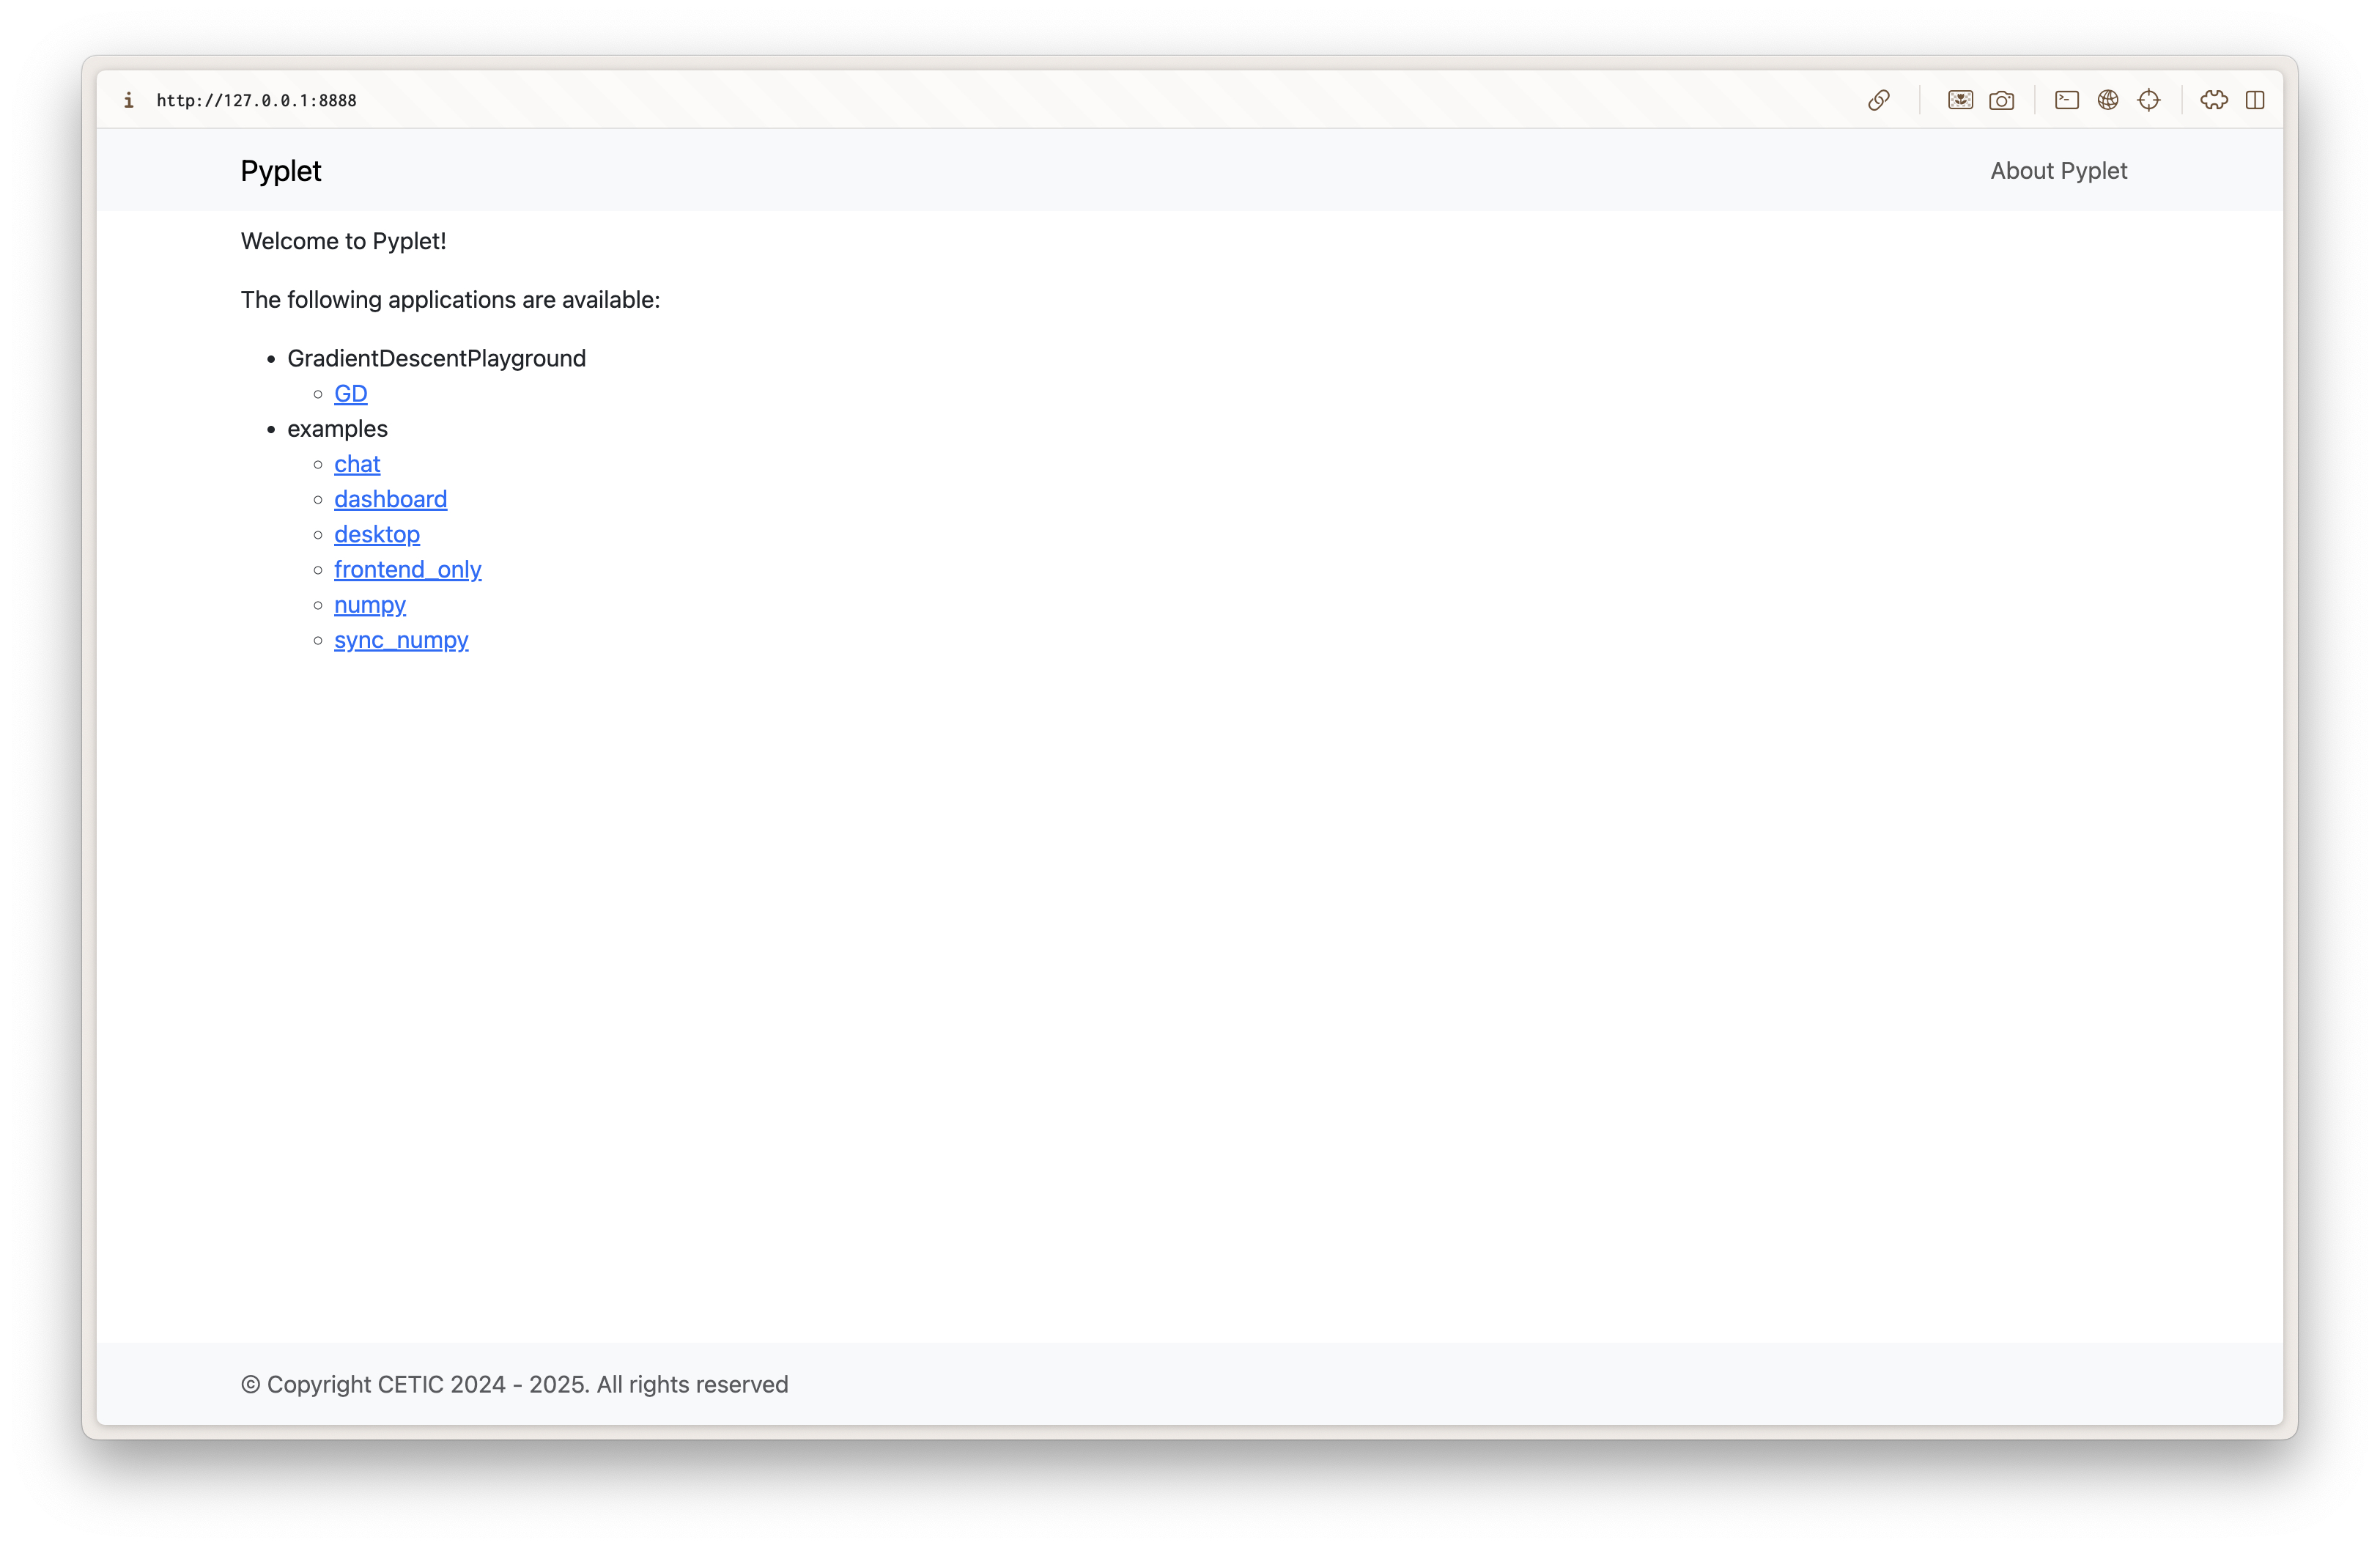
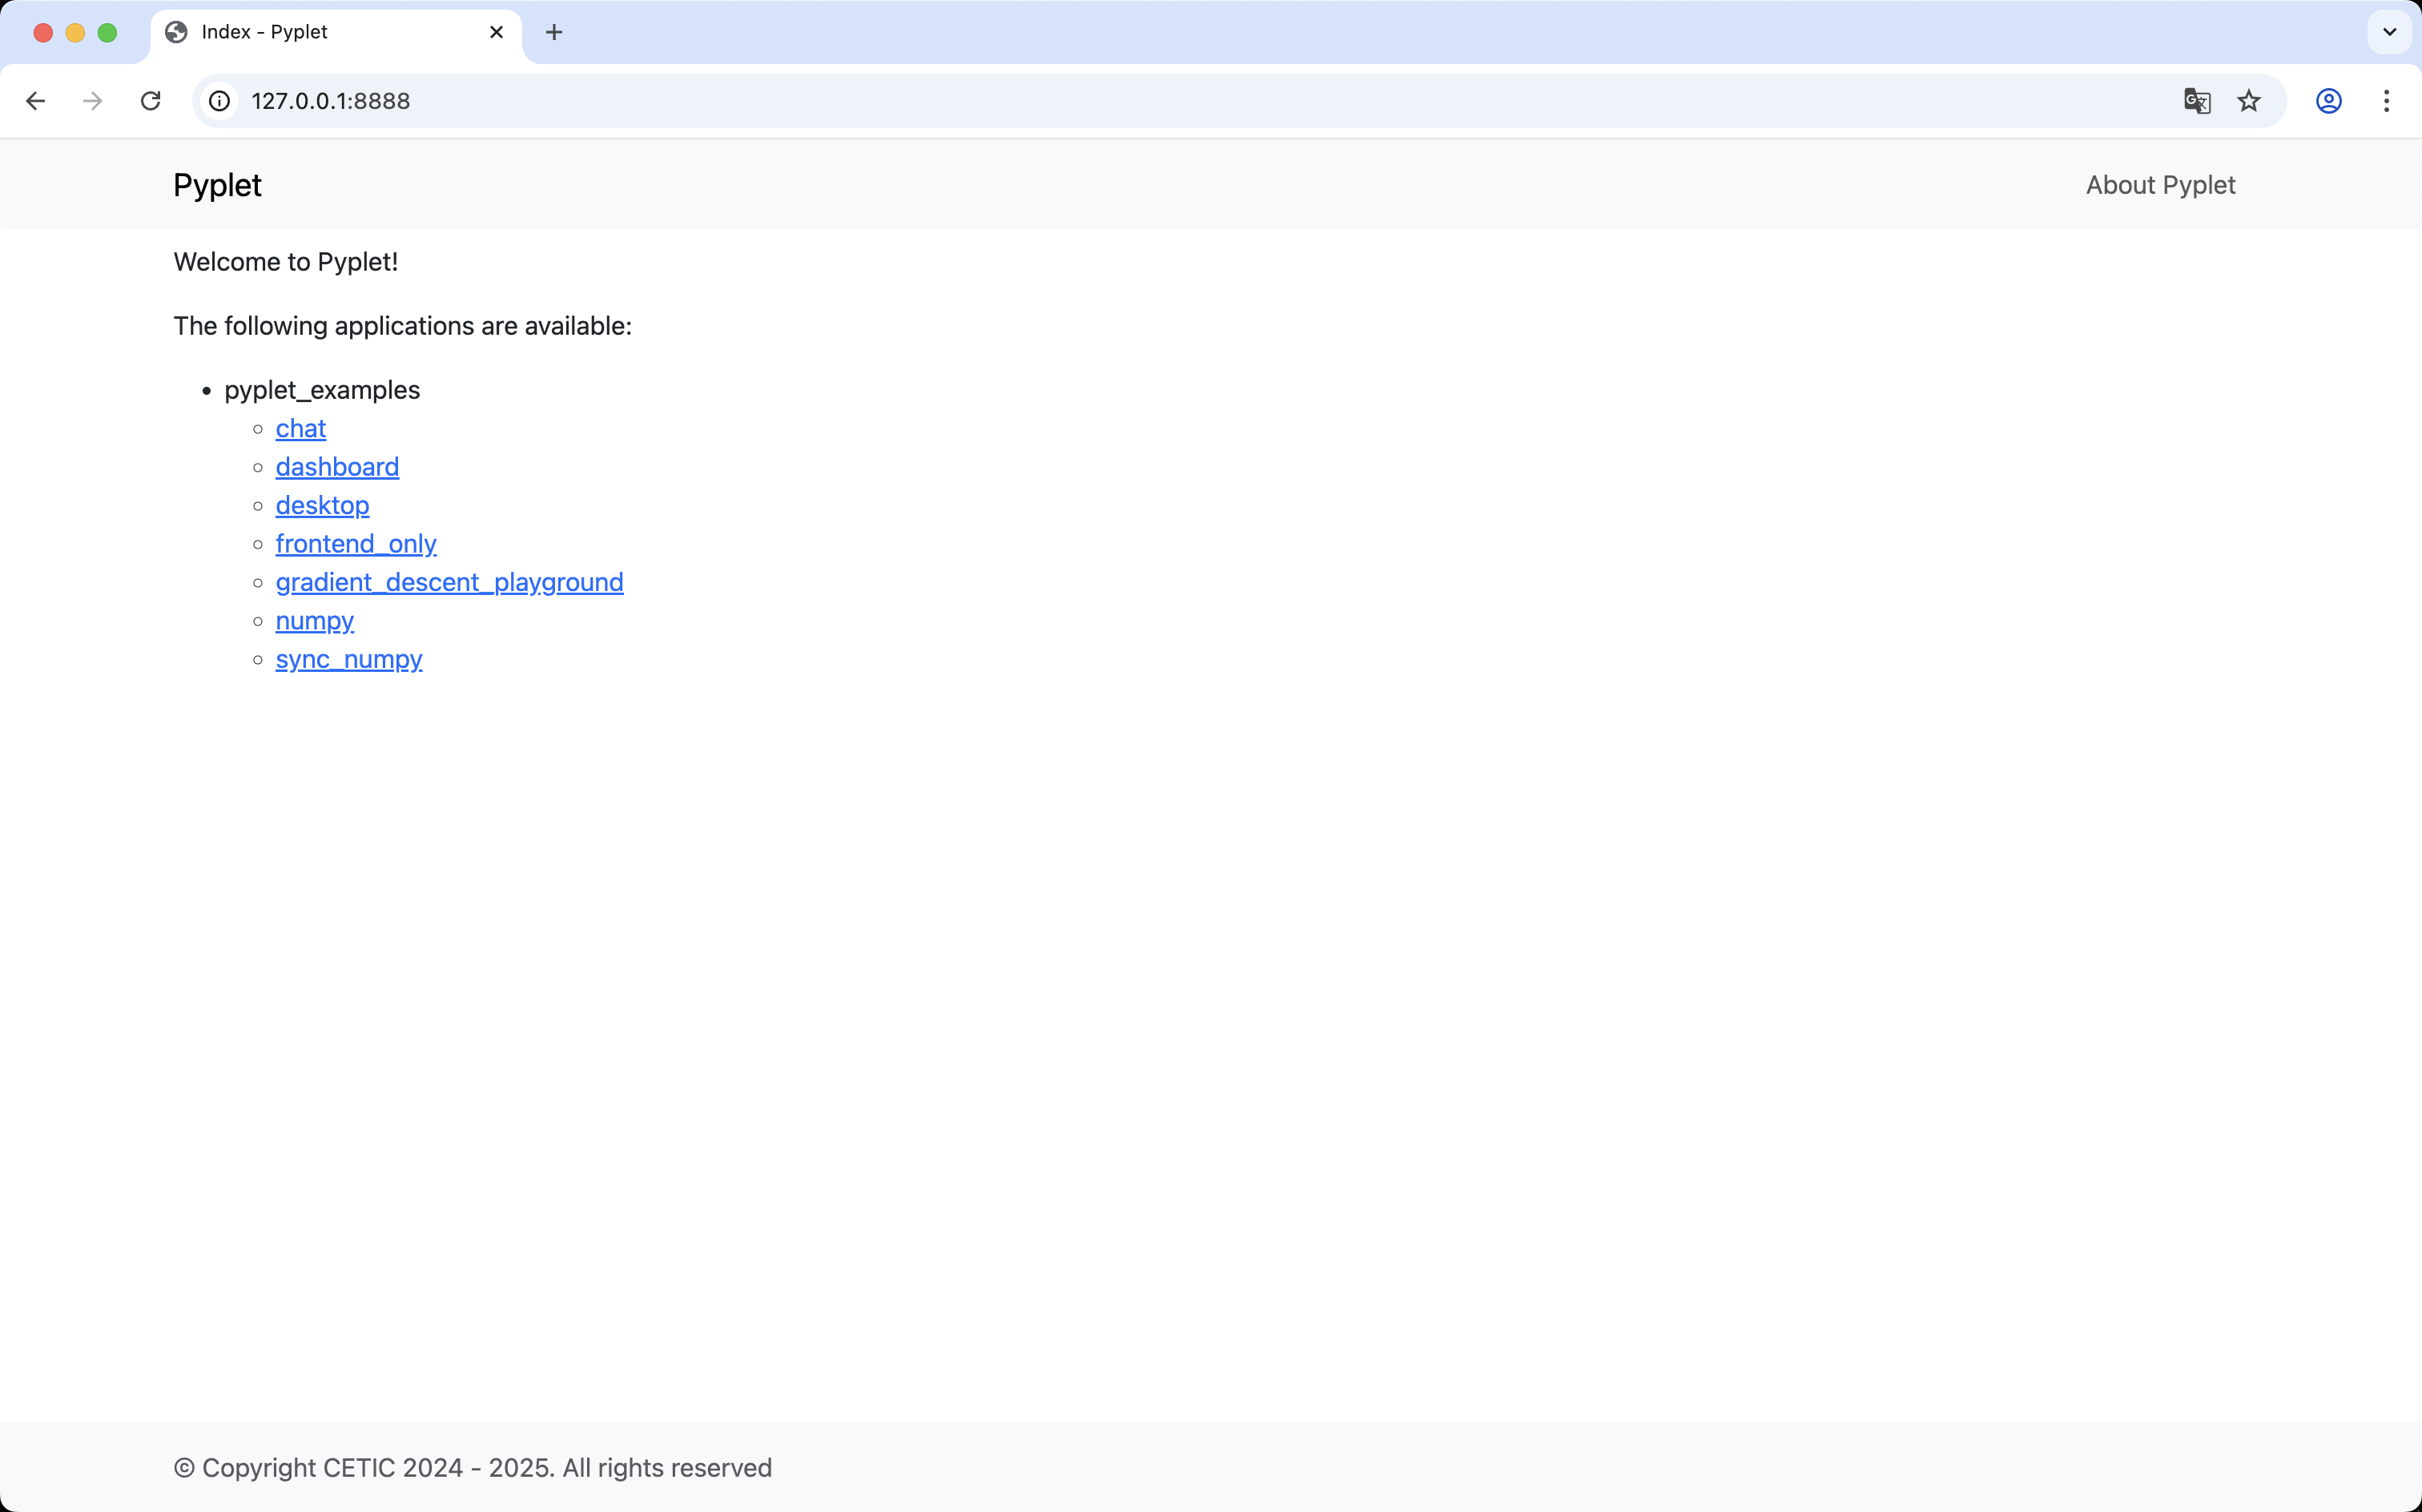
Docs: reorganize examples and update docs

Changed region(s): [[0.0, 0.0, 1.0, 1.0], [0.9947, 0.9688, 1.0, 1.0]]

diff --git a/docs/examples/gradient-descent-playground.md b/docs/examples/gradient-descent-playground.md
@@ -1,41 +1,34 @@
 ---
-title: GradientDescentPlayground
+title: Gradient Descent Playground
 ---
 
-# Example: GradientDescentPlayground
+# Example: Gradient Descent Playground
 
-This demo lives in a separate repository and can be included under `apps/` in two ways.
+A 1D optimization playground that visualizes gradient-based optimizers entirely in the browser. Adjust objectives, hyperparameters, and transport controls to see how each optimizer behaves in real time.
 
-## Option 1: Git submodule (recommended)
+## Location
+
+- Repository: `[email redacted]:seglab/pyplet_examples.git`
+- Path: `apps/examples/gradient_descent_playground_*`
+- Client entry point: `gradient_descent_playground_client.py`
+- Server shim: `gradient_descent_playground_server.py`
+
+Pull the examples repository (submodule) after cloning Pyplet:
 
 ```bash
-git submodule add [email redacted]:seglab/gradientdescentplayground.git apps/GradientDescentPlayground
 git submodule update --init --recursive
 ```
 
-To update later:
+## Highlights
 
-```bash
-cd apps/GradientDescentPlayground
-git pull origin main  # or the appropriate default branch
-```
+- Objective catalogue defined in `gradient_descent_playground_client.py:92` with Autograd-backed functions.
+- Slider proxies in `gradient_descent_playground_client.py:362` feed hyperparameter updates into the simulation loop.
+- Optimizer step logic centralised in `gradient_descent_playground_client.py:974`.
+- Canvas rendering pipeline anchored by `gradient_descent_playground_client.py:1048`.
 
-## Option 2: Plain clone (quick local setup)
+## Extending the playground
 
-```bash
-git clone [email redacted]:seglab/gradientdescentplayground.git apps/GradientDescentPlayground
-```
+- Add new objectives by extending the `FUNCTIONS` mapping and wiring corresponding widgets in `render_layout`.
+- Introduce optimizers by updating `apply_optimizer_step` and the UI controls that expose new hyperparameters.
 
-## Launching the demo
-
-Start the Pyplet server and open:
-
-```
-http://127.0.0.1:8888/apps/GradientDescentPlayground/GradientDescentPlayground
-```
-
-Notes:
-
-- The final URL segment must match the `_client`/`_server` filename prefix inside the demo folder
-- If the demo declares extra `client_libraries`, Pyodide installs them automatically on first load
-
+Refer to the example repository README for a deeper walkthrough of the architecture and implementation notes.

diff --git a/docs/examples/dashboard.md b/docs/examples/dashboard.md
@@ -1,0 +1,30 @@
+---
+title: Dashboard
+---
+
+# Example: Dashboard
+
+A live monitoring panel that charts service activity with Matplotlib running in the browser via Pyodide. The server streams JSON, the client updates plots incrementally.
+
+## Location
+
+- Repository: `[email redacted]:seglab/pyplet_examples.git`
+- Path: `apps/examples/dashboard_*`
+- Client entry point: `dashboard_client.py`
+- Server loop: `dashboard_server.py`
+
+Pull the examples submodule if needed:
+
+```bash
+git submodule update --init --recursive
+```
+
+## Highlights
+
+- `dashboard_client.py:17` seeds Matplotlib with historical series before the figure mounts in the DOM.
+- `dashboard_client.py:28` ingests streamed JSON and mutates the plotted data in place.
+- `dashboard_client.py:32` rescales the axes to keep recent data visible.
+- `dashboard_server.py:23` samples metrics from sibling services.
+- `dashboard_server.py:45` pushes updates from a background coroutine.
+
+Great for understanding how Pyplet handles streaming data and visualisation stacks inside Pyodide.

diff --git a/docs/examples/numpy-stream.md b/docs/examples/numpy-stream.md
@@ -1,0 +1,30 @@
+---
+title: NumPy Stream
+---
+
+# Example: NumPy Stream
+
+Streams random matrices from the server to the browser and visualises them as heatmaps. Showcases binary frame transport and incremental plotting.
+
+## Location
+
+- Repository: `[email redacted]:seglab/pyplet_examples.git`
+- Path: `apps/examples/numpy_*`
+- Client entry point: `numpy_client.py`
+- Server loop: `numpy_server.py`
+
+Initialise or refresh the examples submodule:
+
+```bash
+git submodule update --init --recursive
+```
+
+## Highlights
+
+- `numpy_client.py:12` deserialises NumPy arrays from WebSocket frames.
+- `numpy_client.py:14` seeds a live `imshow` plot that updates in place.
+- `numpy_client.py:18` animates by mutating the existing image buffer.
+- `numpy_server.py:15` generates random matrices every second.
+- `numpy_server.py:18` sends binary payloads directly to all connected clients.
+
+Great when you need a template for transporting binary data or streaming scientific visualisations.

diff --git a/docs/examples/chat.md b/docs/examples/chat.md
@@ -1,0 +1,29 @@
+---
+title: Chat
+---
+
+# Example: Chat
+
+A multi-user chat room powered entirely by Pyplet. Messages arrive over WebSockets, the UI updates through Pyodide DOM calls, and no JavaScript is required.
+
+## Location
+
+- Repository: `[email redacted]:seglab/pyplet_examples.git`
+- Path: `apps/examples/chat_*`
+- Client entry point: `chat_client.py`
+- Server loop: `chat_server.py`
+
+Fetch or refresh the examples submodule:
+
+```bash
+git submodule update --init --recursive
+```
+
+## Highlights
+
+- `chat_client.py:26` unwraps the handshake payload to display the assigned username.
+- `chat_client.py:31` uses `pyodide.create_proxy` to wire DOM events directly to the WebSocket.
+- `chat_server.py:35` rebroadcasts every message to all connected clients.
+- `chat_server.py:42` manages the user pool, removing sockets when clients disconnect.
+
+This example demonstrates two-way real-time messaging with minimal boilerplate—ideal for exploring Pyplet’s WebSocket helpers.

diff --git a/docs/examples/desktop.md b/docs/examples/desktop.md
@@ -1,0 +1,29 @@
+---
+title: Desktop
+---
+
+# Example: Desktop
+
+Simulates a desktop environment with draggable windows that load external pages. It mixes Pyplet’s DOM primitives with existing JavaScript widgets such as jQuery UI dialogs.
+
+## Location
+
+- Repository: `[email redacted]:seglab/pyplet_examples.git`
+- Path: `apps/examples/desktop_*`
+- Client entry point: `desktop_client.py`
+- Server shim: `desktop_server.py`
+
+Synchronise the examples submodule:
+
+```bash
+git submodule update --init --recursive
+```
+
+## Highlights
+
+- `desktop_client.py:8` builds dialog widgets through `pyplet.dom` before handing them to jQuery UI.
+- `desktop_client.py:27` renders the full DOM tree and attaches per-window lifecycle hooks.
+- `desktop_client.py:31` integrates with jQuery UI to provide draggable windows.
+- `desktop_client.py:44` strips navigation chrome when embedding the main site into dialog iframes.
+
+Use this example to see how Pyplet interoperates with existing JavaScript libraries while staying in Python.

diff --git a/docs/examples/frontend-only.md b/docs/examples/frontend-only.md
@@ -1,0 +1,28 @@
+---
+title: Frontend Only
+---
+
+# Example: Frontend Only
+
+A purely client-side application that still leverages NumPy and Matplotlib through Pyodide. No Python runs on the server once the bundle loads.
+
+## Location
+
+- Repository: `[email redacted]:seglab/pyplet_examples.git`
+- Path: `apps/examples/frontend_only_*`
+- Client entry point: `frontend_only_client.py`
+- Server shim: `frontend_only_server.py`
+
+Pull the examples submodule after cloning:
+
+```bash
+git submodule update --init --recursive
+```
+
+## Highlights
+
+- `frontend_only_client.py:6` builds the entire layout with `pyplet.dom` from the browser context.
+- `frontend_only_client.py:12` and `frontend_only_client.py:14` generate plots with NumPy and Matplotlib inside Pyodide.
+- `frontend_only_server.py:1` declares required `client_libraries`, demonstrating how to bundle scientific packages for frontend use.
+
+This example is ideal when experimenting with fully offline Pyodide experiences that still use Python’s scientific stack.

diff --git a/docs/examples/sync-numpy.md b/docs/examples/sync-numpy.md
@@ -1,0 +1,28 @@
+---
+title: Sync NumPy
+---
+
+# Example: Sync NumPy
+
+A broadcast variant of the NumPy stream where every viewer shares the same frame feed. Demonstrates coordinated fan-out with background tasks.
+
+## Location
+
+- Repository: `[email redacted]:seglab/pyplet_examples.git`
+- Path: `apps/examples/sync_numpy_*`
+- Client entry point: `sync_numpy_client.py`
+- Server loop: `sync_numpy_server.py`
+
+Fetch the examples submodule:
+
+```bash
+git submodule update --init --recursive
+```
+
+## Highlights
+
+- `sync_numpy_client.py:1` reuses the standard NumPy client loop to stay aligned with the shared feed.
+- `sync_numpy_server.py:17` spawns a background task that keeps generating and broadcasting frames.
+- `sync_numpy_server.py:24` prunes disconnected sockets while iterating the subscriber set.
+
+Start here when you need a baseline for multi-client synchronised streams.

diff --git a/docs/micro-apps.md b/docs/micro-apps.md
@@ -29,7 +29,7 @@ Packaging (`apps/<project>/config.py`):
 - `serve(handler)`: returns a DOM tree that loads Pyodide, unpacks the app zip, and calls `pyplet.client.bootstrap()`
 
 ```python
---8<-- "apps/examples/config.py"
+--8<-- "apps/pyplet_examples/config.py"
 ```
 
 ## URLs
@@ -43,27 +43,4 @@ Packaging (`apps/<project>/config.py`):
 
 Any additional Python packages used by the client don’t need pre-installation. Declare them in the server file as `client_libraries`, and Pyodide installs them at runtime.
 
-```python
---8<-- "apps/examples/frontend_only_server.py"
-```
-
-## Example: Frontend-only
-
-```python
---8<-- "apps/examples/frontend_only_client.py"
-```
-
-## Example: NumPy stream (binary frames)
-
-Client:
-
-```python
---8<-- "apps/examples/numpy_client.py"
-```
-
-Server:
-
-```python
---8<-- "apps/examples/numpy_server.py"
-```
-
+The **Examples** section of the documentation walks through concrete micro-apps that apply these patterns—real-time chat, dashboards, canvas-based playgrounds, and more. Start there when you want a guided tour of fully working apps.

diff --git a/docs/getting-started.md b/docs/getting-started.md
@@ -22,7 +22,7 @@ source .venv/bin/activate
 pip install -e .
 ```
 
-Optionally install example dependencies used by the bundled demo apps:
+Optionally install example dependencies used by the official example micro-apps:
 
 ```bash
 uv sync --group examples
@@ -57,9 +57,4 @@ Server settings live in `apps/config.py`:
 
 Open any app by navigating to `/apps/<project>/<name>` where `<project>` is the folder under `apps/` (e.g., `examples`) and `<name>` matches the `_client`/`_server` filename prefix.
 
-Examples include:
-
-- Chat (real-time broadcast with WebSockets)
-- NumPy heatmap stream (binary frames + Matplotlib)
-- Dashboard (live chart of service connections)
-- Frontend-only app (Pyodide + Matplotlib + DOM)
+The official examples repository lives at `apps/examples` (a Git submodule). Run `git submodule update --init --recursive` to pull it after cloning. Refer to the **Examples** section of the documentation for a full tour of the available micro-apps.

diff --git a/docs/tutorials/frontend-only.md b/docs/tutorials/frontend-only.md
@@ -14,7 +14,7 @@ In this tutorial, you’ll build a client-only app that:
 We can reuse the included example as a template and adapt it later:
 
 ```python
---8<-- "apps/examples/frontend_only_client.py"
+--8<-- "apps/pyplet_examples/frontend_only_client.py"
 ```
 
 ## Server stub
@@ -22,7 +22,7 @@ We can reuse the included example as a template and adapt it later:
 Because this app runs entirely in the browser, the server component just declares client libraries so the bundle brings NumPy and Matplotlib:
 
 ```python
---8<-- "apps/examples/frontend_only_server.py"
+--8<-- "apps/pyplet_examples/frontend_only_server.py"
 ```
 
 ## Run it
@@ -30,4 +30,3 @@ Because this app runs entirely in the browser, the server component just declare
 Start the server and navigate to the URL shown on the home page for the “frontend_only” app.
 
 That’s it — you’ve built a fully client-side experience entirely in Python.
-

diff --git a/docs/tutorials/websocket-app.md b/docs/tutorials/websocket-app.md
@@ -9,7 +9,7 @@ Let’s build a real-time app that exchanges messages between browser and server
 ## Client: handling input and messages
 
 ```python
---8<-- "apps/examples/chat_client.py"
+--8<-- "apps/pyplet_examples/chat_client.py"
 ```
 
 The client:
@@ -21,7 +21,7 @@ The client:
 ## Server: broadcasting to all clients
 
 ```python
---8<-- "apps/examples/chat_server.py"
+--8<-- "apps/pyplet_examples/chat_server.py"
 ```
 
 The server loop:
@@ -33,4 +33,3 @@ The server loop:
 ## Run it
 
 Start the server and open multiple browser tabs to the chat app’s URL. You should see messages broadcast in real-time.
-